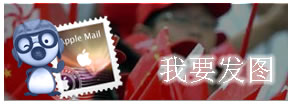
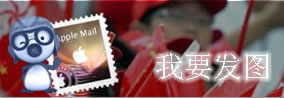
show/show

diff --git a/css/show_show.css b/css/show_show.css
@@ -9,6 +9,7 @@ li{margin:0px; list-style-type:none;}
 #ibody_right{width:684px; float:right; display:inline;}
 
 #l_t{width:296px; float:left; display:inline;}
+
 .l_m{width:290px; margin-top:10px; border:1px solid #DFDFDF; float:left; display:inline;}
 .l_m a{text-decoration:none;}
 .l_m .title{width:270px; height:20px; padding:10px; color:#141414; font-weight:bold; font-size:15px; border-bottom:1px solid #DFDFDF; float:left; display:inline;}
@@ -32,17 +33,17 @@ li{margin:0px; list-style-type:none;}
 #info .title{width:550px; height:10px; padding:10px; line-height:15px; font-size:15px; float:left; display:inline;}
 #info .content{width:570px; font-size:13px; margin-top:20px; color:#666666; float:left; display:inline;}
 #info .content .title{width:auto; height:auto; padding:0; margin-left:15px; font-size:13px; float:left; display:inline;}
-#info .content .top{width:570px; float:left; display:inline;}
-#info .content .top #description{width:480px; line-height:15px; overflow:hidden; float:left; display:inline;}
-#info .content .center{width:570px; height:30px; margin-top:20px; float:left; display:inline;}
+#info .content .bottom{width:570px; padding-bottom:15px; float:left; display:inline;}
+#info .content .bottom #description{width:480px; line-height:15px; overflow:hidden; float:left; display:inline;}
+#info .content .center{width:570px; height:30px; margin-top:10px; float:left; display:inline;}
 #info .content .center .left{width:190px; float:left; display:inline;}
 #info .content .center .left #publisher{width:100px; font-size:13px; color:#0093BB;  line-height:15px; font-weight:bolder; float:left; display:inline;}
 #info .content .center .middle{width:190px; float:left; display:inline;}
 #info .content .center .middle #date{width:100px; font-size:13px; color:#FF6600;  line-height:15px; font-weight:bolder; float:left; display:inline;}
 #info .content .center .right{width:190px; float:left; display:inline;}
 #info .content .center .right #count{font-weight:bolder;  line-height:15px; color:#FF6600; float:left; display:inline;}
-#info .content .bottom{width:570px; float:left; display:inline;}
-#info .content .bottom #name{width:550px; height:30px; margin-left:15px;line-height:25px;  float:left; display:inline; overflow:hidden;}
+#info .content .top{width:570px; float:left; display:inline;}
+#info .content .top #name{width:550px; height:30px; margin-left:15px;line-height:25px;  float:left; display:inline; overflow:hidden;}
 
 #r_b{width:680px; margin-top:10px; background:url('/images/show/show_r_b.jpg') no-repeat; float:left; display:inline;}
 

diff --git a/show/show.php b/show/show.php
@@ -22,28 +22,28 @@
 <div id=ibody>	
  <div id=ibody_left>
  	  	<div id=l_t>
-	 	  	<a target="_blank" href="#"><img border=0 src="/images/show/show_l_t.jpg"></a>
+	 	  	<a target="_blank" href="#"><img border=0 src="/images/show/show_l_t.jpg" width="290"></a>
 			<?php
 				$db = get_db();
 				$sql = 'select i.id,i.title,i.src from smg_images i left join smg_category c on i.category_id=c.id where i.is_adopt=1 and c.name="番茄广告" and c.category_type="picture" order by i.priority asc limit 4';
 				$record_ad=$db -> query($sql);
 			?>
 			<script src="/flash/sohuflash_1.js" type="text/javascript"></script>
-			<div id="focus_02"></div> 
+			<div id="focus_02" style="margin-top:5px;"></div> 
 			<script type="text/javascript"> 
-				var pic_width1=276; 
+				var pic_width1=287; 
 				var pic_height1=146; 
 				var pics1="<?php echo $record_ad[0]->src.",".$record_ad[1]->src.",".$record_ad[2]->src.",".$record_ad[3]->src ?>";
 				var mylinks1="<?php echo "show.php?id=".$record_ad[0]->id.",show.php?id=".$record_ad[1]->id.",show.php?id=".$record_ad[2]->id.",show.php?id=".$record_ad[3]->id ?>";
 				var texts1="<?php echo $record_ad[0]->title.",".$record_ad[1]->title.",".$record_ad[2]->title.",".$record_ad[3]->title ?>";
 	
-				var picflash = new sohuFlash("/flash/focus.swf", "focus_02", "287", "146", "4","#FFFFFF");
+				var picflash = new sohuFlash("/flash/focus.swf", "focus_02", "290", "146", "4","#FFFFFF");
 				picflash.addParam('wmode','opaque');
 				picflash.addVariable("picurl",pics1);
 				picflash.addVariable("piclink",mylinks1);
 				picflash.addVariable("pictext",texts1);				
 				picflash.addVariable("pictime","5");
-				picflash.addVariable("borderwidth","287");
+				picflash.addVariable("borderwidth","290");
 				picflash.addVariable("borderheight","146");
 				picflash.addVariable("borderw","false");
 				picflash.addVariable("buttondisplay","true");
@@ -106,11 +106,11 @@
 				</a>
 			</div>
 			<div class=digg>
-				<div id="flower">
+				<div id="flower" title="送鲜花">
 					<?php echo $image->flower;?>
 					<input type="hidden" id="hidden_flower" value="<?php echo $image->flower;?>">
 				</div>
-				<div id="tomato">
+				<div id="tomato" title="丢番茄">
 					<?php echo $image->tomato;?>
 					<input type="hidden" id="hidden_tomato" value="<?php echo $image->tomato;?>">
 				</div>
@@ -124,8 +124,7 @@
 	  		<div class=title>图片信息</div>
 			<div class=content>
 				<div class=top>
-					<div class=title>视频简介：</div>
-					<div id=description><?php echo $image->description;?></div>
+					<div id=name>图片名称：<?php echo $image->title;?></div>
 				</div>
 				<div class=center>
 					<div class=left>
@@ -142,8 +141,10 @@
 					</div>
 				</div>
 				<div class=bottom>
-					<div id=name>图片名称：<?php echo $image->title;?></div>
+					<div class=title>图片简介：</div>
+					<div id=description><?php echo $image->description;?></div>
 				</div>
+				
 			</div>
 		</div>
 		
@@ -189,7 +190,7 @@
 					$count = count($records);
 					for($i=0;$i<$count;$i++){ 
 				?>
-					<div class=pic><a target="_blank" href="show.php?id=<?php echo $records[$i]->id;?>"><img width=145 height=105 border=0 src="<?php echo $records[$i]->src_path('small');?>"></a></div>
+					<div class=pic><a target="_blank" title="<?php echo $records[$i]->title; ?>" href="show.php?id=<?php echo $records[$i]->id;?>"><img width=145 height=105 border=0 src="<?php echo $records[$i]->src_path('small');?>"></a></div>
 				<?php }?>
 			</div>
 		</div>

diff --git a/show/show_index.php b/show/show_index.php
@@ -50,6 +50,7 @@
 				<div class=content style="border-bottom:none;">
 				<?php
 					$sql = 'select keywords from smg_images where keywords!="" order by click_count desc limit 10';
+					echo $sql;
 					$records = $db->query($sql);
 					$c = array();
 					for($i=0;$i<count($records);$i++){
